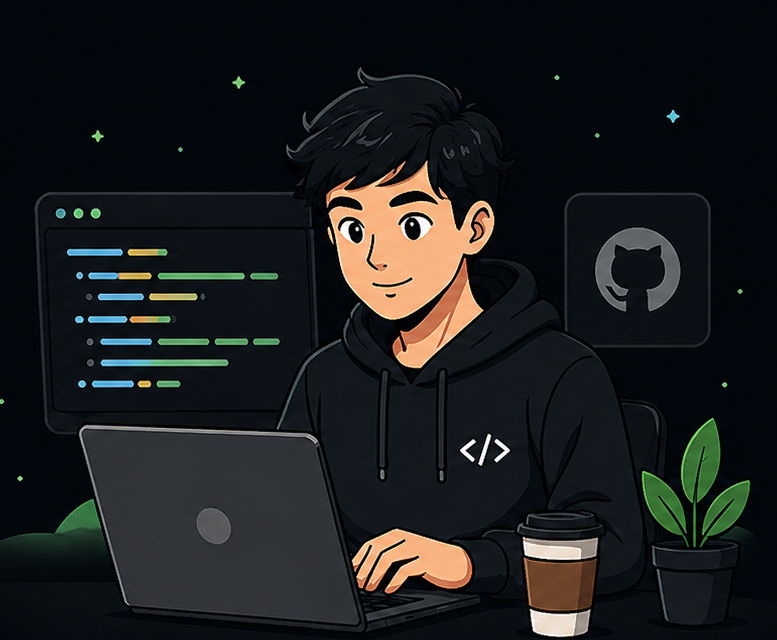
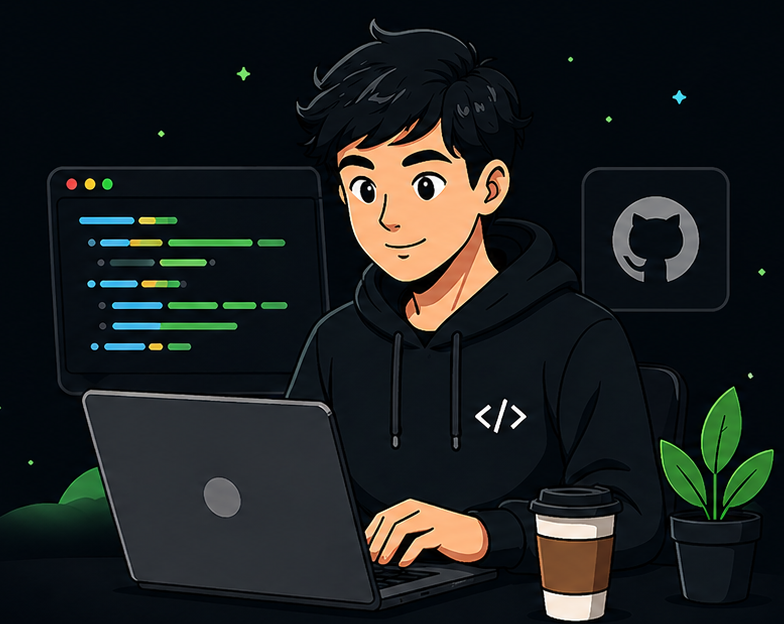
uploading my redme profile

diff --git a/README.md b/README.md
@@ -9,9 +9,9 @@
   </tr>
 
   <tr>
-    <td colspan="2" align="left" style="line-height: 0; border: none; padding-top: 10px;">
+    <td colspan="2" align="left">
       <a href="https://linkedin.com/in/YOUR_LINKEDIN_USERNAME">
-        <img src="lower-part1.png" border="0" style="display: block;" />
+        <img src="part3.png" align="left" />
       </a>
     </td>
   </tr>
